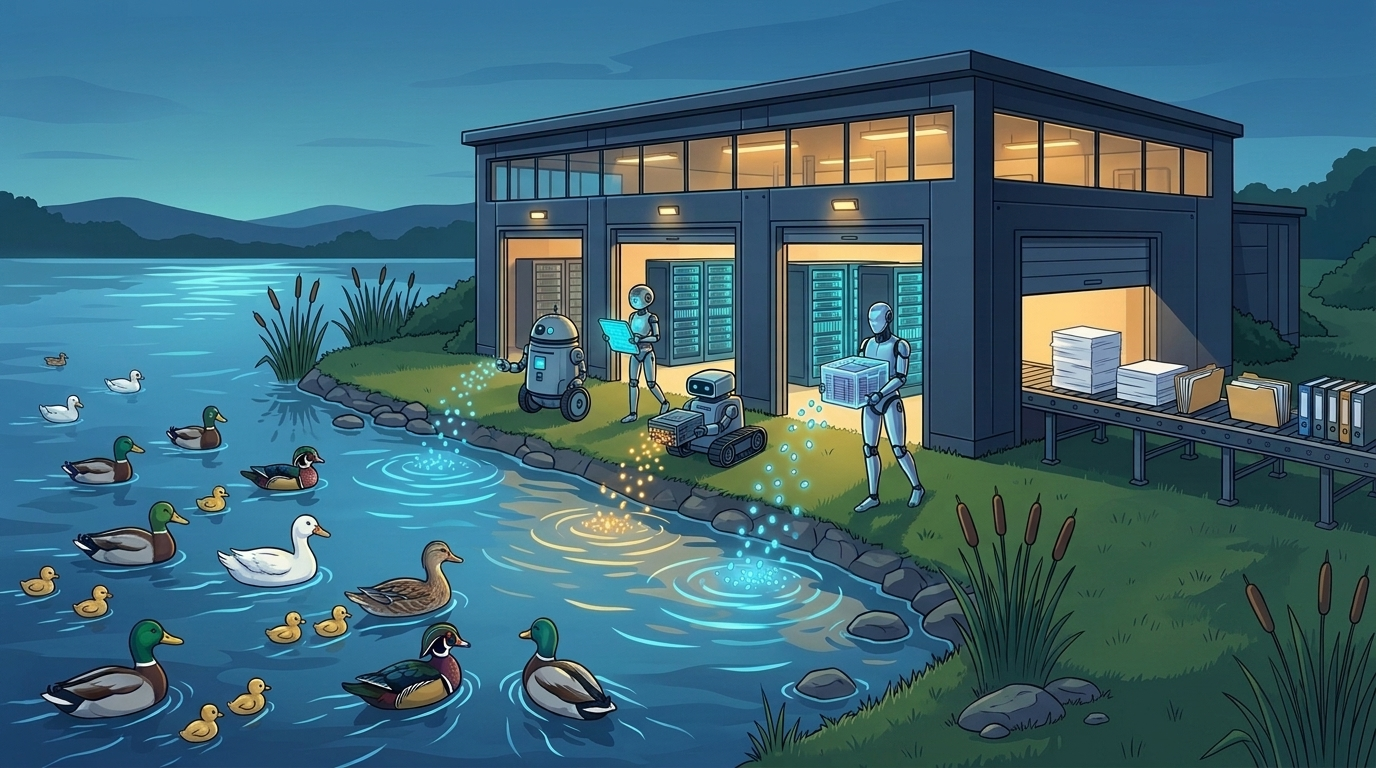
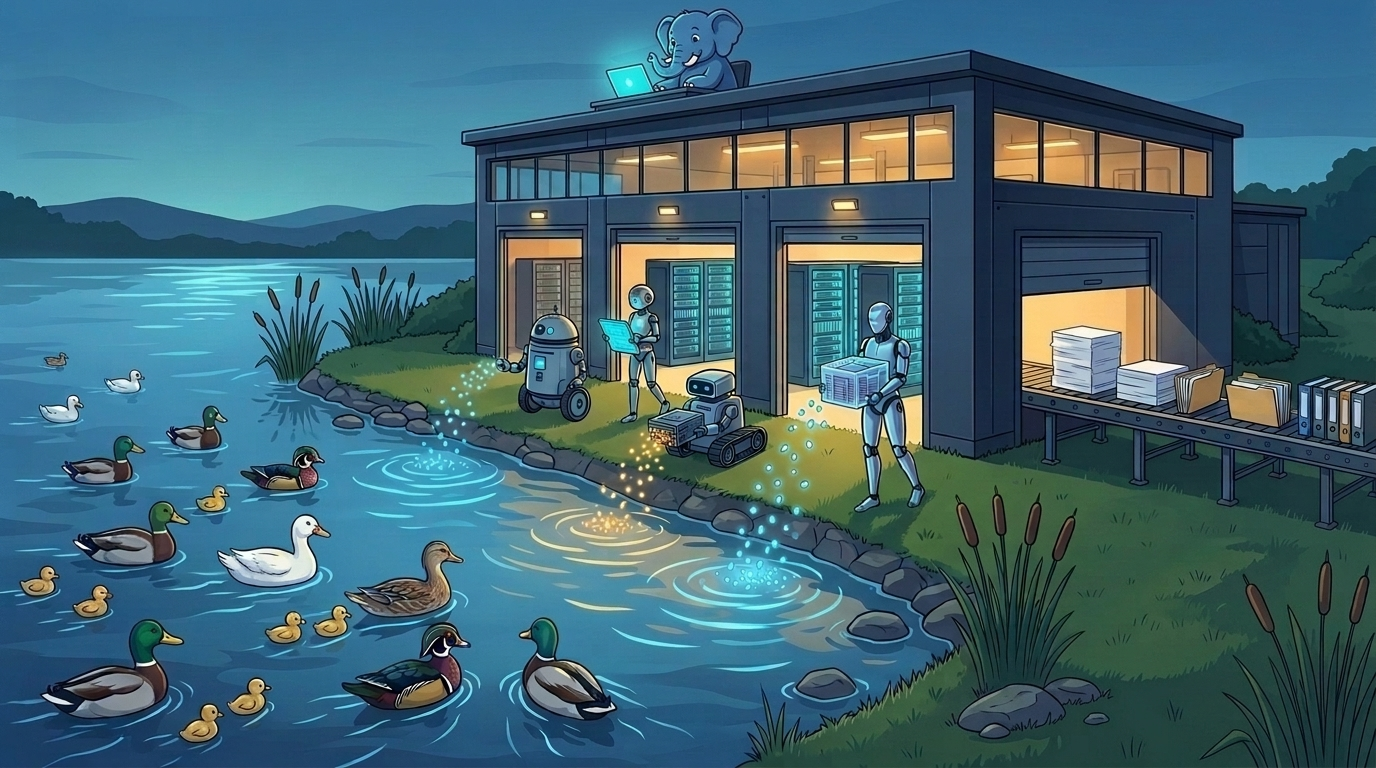
Add Import tab, fix HTTP clipboard copy, default ~/.ssl/<app>, and add roof elephant to DuckLake illustration

Changed region(s): [[0.4062, 0.0, 0.5625, 0.1562], [0.4688, 0.5625, 0.5, 0.5938], [0.4375, 0.4062, 0.4688, 0.4375]]

diff --git a/templates/index.html b/templates/index.html
@@ -399,6 +399,7 @@
             <button class="tab-btn active" onclick="switchTab('projects-tab')">📁 Projects</button>
             <button class="tab-btn" onclick="switchTab('lake-tab')">🦆 Analytics</button>
             <button class="tab-btn" onclick="switchTab('warehouse-tab')">📦 Warehouse</button>
+            <button class="tab-btn" onclick="switchTab('import-tab')">📥 Import</button>
             <button class="tab-btn" onclick="switchTab('ai-tab')">🍊🥧 AI</button>
             <button class="tab-btn" onclick="switchTab('config-tab')">⚙ Settings</button>
             <button class="tab-btn" onclick="switchTab('manifest-tab')">📜 Manifest</button>
@@ -406,7 +407,7 @@
         </div>
 
         <!-- ============================================================== -->
-        <!-- TAB 1: Projects & Global Data Ingestion                        -->
+        <!-- TAB 1: Projects                                                -->
         <!-- ============================================================== -->
         <div id="projects-tab" class="tab-content active">
             <div class="panel">
@@ -424,61 +425,6 @@
 
                 <div id="projectsListContainer" class="project-grid">
                     <div style="color: #8b949e; font-size: 0.9rem;">Loading project partitions...</div>
-                </div>
-            </div>
-
-            <!-- Ingestion Zone -->
-            <div class="panel">
-                <div class="panel-header">
-                    <h2>Global Data Ingestion: Move Data into DuckLake & Warehouse</h2>
-                </div>
-                <div class="ingest-grid">
-                    <!-- 1. Upload to DuckLake -->
-                    <div class="ingest-card">
-                        <h4>🦆 Ingest to DuckLake</h4>
-                        <p>Upload CSV, JSON, or Parquet file directly into /srv/DuckLake (auto-converts with ZSTD compression).</p>
-                        <input type="file" id="ducklakeFileInput" class="form-input" accept=".parquet,.pq,.csv,.tsv,.json,.jsonl">
-                        <input type="text" id="ducklakeTableInput" class="form-input" placeholder="Custom table name (optional)">
-                        <select id="ducklakeProjectSelect" class="form-input">
-                            <option value="default">Project Partition: default</option>
-                        </select>
-                        <select id="ducklakeModeSelect" class="form-input">
-                            <option value="replace">Mode: Replace Table</option>
-                            <option value="append">Mode: Append to Table</option>
-                        </select>
-                        <button class="btn btn-primary" onclick="uploadToDucklake()">Upload & Ingest</button>
-                    </div>
-
-                    <!-- 2. Insert JSON Records -->
-                    <div class="ingest-card">
-                        <h4>📝 Insert JSON Records</h4>
-                        <p>Append or replace rows in a DuckLake Parquet table via JSON payload.</p>
-                        <input type="text" id="insertTableName" class="form-input" placeholder="Table name (e.g. metrics)">
-                        <select id="insertProjectSelect" class="form-input">
-                            <option value="default">Project Partition: default</option>
-                        </select>
-                        <textarea id="insertJsonRecords" class="form-input" style="height:65px; font-family:monospace;" placeholder='[{"id": 1, "val": 42}]'></textarea>
-                        <select id="insertModeSelect" class="form-input">
-                            <option value="append">Mode: Append Records</option>
-                            <option value="replace">Mode: Replace Table</option>
-                        </select>
-                        <button class="btn" onclick="insertJsonRecordsToLake()">Insert Records</button>
-                    </div>
-
-                    <!-- 3. Upload to Warehouse -->
-                    <div class="ingest-card">
-                        <h4>📦 Upload Raw to Warehouse</h4>
-                        <p>Upload raw data files (CSV, JSON, SQLite, Excel, logs) into /srv/Warehouse.</p>
-                        <input type="file" id="warehouseFileInput" class="form-input">
-                        <select id="warehouseProjectSelect" class="form-input">
-                            <option value="default">Project Partition: default</option>
-                        </select>
-                        <input type="text" id="warehouseSubfolderInput" class="form-input" placeholder="Destination subfolder (optional)">
-                        <label style="font-size:0.75rem; color:#8b949e; display:flex; align-items:center; gap:6px;">
-                            <input type="checkbox" id="warehouseOverwriteCheck" checked> Overwrite if exists
-                        </label>
-                        <button class="btn btn-purple" onclick="uploadToWarehouse()">Upload Raw File</button>
-                    </div>
                 </div>
             </div>
         </div>
@@ -609,6 +555,65 @@
                             <tr><td colspan="6" style="color:#8b949e;">Loading warehouse files...</td></tr>
                         </tbody>
                     </table>
+                </div>
+            </div>
+        </div>
+
+        <!-- ============================================================== -->
+        <!-- TAB 4: Global Data Ingestion (Import)                          -->
+        <!-- ============================================================== -->
+        <div id="import-tab" class="tab-content">
+            <div class="panel">
+                <div class="panel-header">
+                    <h2>📥 Global Data Ingestion: Move Data into DuckLake &amp; Warehouse</h2>
+                </div>
+                <div class="ingest-grid">
+                    <!-- 1. Upload to DuckLake -->
+                    <div class="ingest-card">
+                        <h4>🦆 Ingest to DuckLake</h4>
+                        <p>Upload CSV, JSON, or Parquet file directly into /srv/DuckLake (auto-converts with ZSTD compression).</p>
+                        <input type="file" id="ducklakeFileInput" class="form-input" accept=".parquet,.pq,.csv,.tsv,.json,.jsonl">
+                        <input type="text" id="ducklakeTableInput" class="form-input" placeholder="Custom table name (optional)">
+                        <select id="ducklakeProjectSelect" class="form-input">
+                            <option value="default">Project Partition: default</option>
+                        </select>
+                        <select id="ducklakeModeSelect" class="form-input">
+                            <option value="replace">Mode: Replace Table</option>
+                            <option value="append">Mode: Append to Table</option>
+                        </select>
+                        <button class="btn btn-primary" onclick="uploadToDucklake()">Upload &amp; Ingest</button>
+                    </div>
+
+                    <!-- 2. Insert JSON Records -->
+                    <div class="ingest-card">
+                        <h4>📝 Insert JSON Records</h4>
+                        <p>Append or replace rows in a DuckLake Parquet table via JSON payload.</p>
+                        <input type="text" id="insertTableName" class="form-input" placeholder="Table name (e.g. metrics)">
+                        <select id="insertProjectSelect" class="form-input">
+                            <option value="default">Project Partition: default</option>
+                        </select>
+                        <textarea id="insertJsonRecords" class="form-input" style="height:65px; font-family:monospace;" placeholder='[{"id": 1, "val": 42}]'></textarea>
+                        <select id="insertModeSelect" class="form-input">
+                            <option value="append">Mode: Append Records</option>
+                            <option value="replace">Mode: Replace Table</option>
+                        </select>
+                        <button class="btn" onclick="insertJsonRecordsToLake()">Insert Records</button>
+                    </div>
+
+                    <!-- 3. Upload to Warehouse -->
+                    <div class="ingest-card">
+                        <h4>📦 Upload Raw to Warehouse</h4>
+                        <p>Upload raw data files (CSV, JSON, SQLite, Excel, logs) into /srv/Warehouse.</p>
+                        <input type="file" id="warehouseFileInput" class="form-input">
+                        <select id="warehouseProjectSelect" class="form-input">
+                            <option value="default">Project Partition: default</option>
+                        </select>
+                        <input type="text" id="warehouseSubfolderInput" class="form-input" placeholder="Destination subfolder (optional)">
+                        <label style="font-size:0.75rem; color:#8b949e; display:flex; align-items:center; gap:6px;">
+                            <input type="checkbox" id="warehouseOverwriteCheck" checked> Overwrite if exists
+                        </label>
+                        <button class="btn btn-purple" onclick="uploadToWarehouse()">Upload Raw File</button>
+                    </div>
                 </div>
             </div>
         </div>
@@ -1335,7 +1340,7 @@
             <div class="config-grid">
                 <div class="form-group" style="margin-bottom:0;">
                     <label class="form-label">App Name</label>
-                    <input type="text" id="enrollAppName" class="form-input" placeholder="e.g. telemetry-api">
+                    <input type="text" id="enrollAppName" class="form-input" placeholder="e.g. telemetry-api" oninput="syncEnrollSslPathFromName()">
                 </div>
                 <div class="form-group" style="margin-bottom:0;">
                     <label class="form-label">Subdomain</label>
@@ -1370,7 +1375,7 @@
             </div>
             <div class="form-group" style="margin-bottom:0;">
                 <label class="form-label">Remote SSL Target Directory</label>
-                <input type="text" id="enrollSslDir" class="form-input" style="font-family:monospace;" value="~/ssl/lab">
+                <input type="text" id="enrollSslDir" class="form-input" style="font-family:monospace;" value="~/.ssl/app" oninput="this.dataset.manual='1'">
             </div>
             <div class="form-group" style="margin-bottom:0;">
                 <label class="form-label">Optional Reload Command (executed over SSH after cert push)</label>
@@ -1654,14 +1659,42 @@
             if (btn) btn.classList.add('active');
         }
 
+        function copyTextToClipboard(text, successMsg) {
+            if (!text) return;
+            if (navigator.clipboard && window.isSecureContext) {
+                navigator.clipboard.writeText(text).then(() => {
+                    if (successMsg) alert(successMsg);
+                }).catch(() => fallbackCopyText(text, successMsg));
+            } else {
+                fallbackCopyText(text, successMsg);
+            }
+        }
+
+        function fallbackCopyText(text, successMsg) {
+            const ta = document.createElement('textarea');
+            ta.value = text;
+            ta.setAttribute('readonly', '');
+            ta.style.position = 'fixed';
+            ta.style.left = '-9999px';
+            ta.style.top = '0';
+            document.body.appendChild(ta);
+            ta.focus();
+            ta.select();
+            try {
+                const ok = document.execCommand('copy');
+                if (ok && successMsg) alert(successMsg);
+                else if (!ok) alert("Could not copy automatically. Please select and copy manually.");
+            } catch (err) {
+                alert("Copy failed: " + err);
+            } finally {
+                document.body.removeChild(ta);
+            }
+        }
+
         function copyCodeBlock(id) {
             const el = document.getElementById(id);
             if (!el) return;
-            navigator.clipboard.writeText(el.textContent).then(() => {
-                alert("Copied code to clipboard!");
-            }).catch(err => {
-                console.error("Clipboard copy failed:", err);
-            });
+            copyTextToClipboard(el.textContent, "Copied to clipboard!");
         }
 
         function openSnippetsModal(pid, displayName) {
@@ -2180,29 +2213,42 @@ SELECT * FROM ${pid}.<table_name> LIMIT 10;`;
             }).join('');
         }
 
+        function syncEnrollSslPathFromName() {
+            if (document.getElementById('enrollAppId').value) return;
+            const sslInput = document.getElementById('enrollSslDir');
+            if (sslInput.dataset.manual === '1') return;
+            const name = document.getElementById('enrollAppName').value.trim().replace(/[^a-zA-Z0-9._-]/g, '') || 'app';
+            sslInput.value = `~/.ssl/${name}`;
+        }
+
         function applyAppTypePreset() {
             if (document.getElementById('enrollAppId').value) return;
             const t = document.getElementById('enrollAppType').value;
-            const user = document.getElementById('enrollSshUser').value.trim() || 'orangepi';
+            const appName = document.getElementById('enrollAppName').value.trim().replace(/[^a-zA-Z0-9._-]/g, '') || 'app';
+            const sslDir = `~/.ssl/${appName}`;
             const presets = {
-                flask:    { port: 5000, dir: `~/ssl/lab`,     cmd: '' },
-                gunicorn: { port: 8000, dir: `~/ssl/lab`,     cmd: '' },
-                uvicorn:  { port: 8000, dir: `~/ssl/lab`,     cmd: '' },
-                nginx:    { port: 443,  dir: `/etc/ssl/lab`,  cmd: 'sudo nginx -t && sudo systemctl reload nginx' },
-                caddy:    { port: 443,  dir: `/etc/ssl/lab`,  cmd: 'sudo systemctl reload caddy' },
-                custom:   { port: 8443, dir: `~/ssl/lab`,     cmd: '' }
+                flask:    { port: 5000, dir: sslDir, cmd: '' },
+                gunicorn: { port: 8000, dir: sslDir, cmd: '' },
+                uvicorn:  { port: 8000, dir: sslDir, cmd: '' },
+                nginx:    { port: 443,  dir: sslDir, cmd: 'sudo nginx -t && sudo systemctl reload nginx' },
+                caddy:    { port: 443,  dir: sslDir, cmd: 'sudo systemctl reload caddy' },
+                custom:   { port: 8443, dir: sslDir, cmd: '' }
             };
             const p = presets[t] || presets.custom;
             document.getElementById('enrollAppPort').value = p.port;
-            document.getElementById('enrollSslDir').value = p.dir;
+            const sslInput = document.getElementById('enrollSslDir');
+            if (sslInput.dataset.manual !== '1') sslInput.value = p.dir;
             document.getElementById('enrollReloadCmd').value = p.cmd;
         }
 
         function openEnrollAppModal(appId = null) {
             document.getElementById('rv2SshPubKey').textContent = cachedSshPubKey || 'No SSH public key found in ~/.ssh/';
+            const sslInput = document.getElementById('enrollSslDir');
+            sslInput.dataset.manual = '';
             if (appId) {
                 const app = cachedEnrolledApps.find(a => a.id === appId);
                 if (!app) return;
+                sslInput.dataset.manual = '1';
                 document.getElementById('enrollModalTitle').textContent = `Edit Enrolled App: ${app.app_name}`;
                 document.getElementById('enrollAppId').value = app.id;
                 document.getElementById('enrollAppName').value = app.app_name;
@@ -2212,7 +2258,7 @@ SELECT * FROM ${pid}.<table_name> LIMIT 10;`;
                 document.getElementById('enrollSshHost').value = app.ssh_host;
                 document.getElementById('enrollSshUser').value = app.ssh_user;
                 document.getElementById('enrollSshPort').value = app.ssh_port || 22;
-                document.getElementById('enrollSslDir').value = app.remote_ssl_dir;
+                sslInput.value = app.remote_ssl_dir;
                 document.getElementById('enrollReloadCmd').value = app.reload_cmd || '';
                 document.getElementById('enrollAutoSync').checked = !!app.auto_sync;
             } else {
@@ -2241,7 +2287,7 @@ SELECT * FROM ${pid}.<table_name> LIMIT 10;`;
                 ssh_host: document.getElementById('enrollSshHost').value.trim(),
                 ssh_user: document.getElementById('enrollSshUser').value.trim() || 'orangepi',
                 ssh_port: parseInt(document.getElementById('enrollSshPort').value) || 22,
-                remote_ssl_dir: document.getElementById('enrollSslDir').value.trim() || '~/ssl/lab',
+                remote_ssl_dir: document.getElementById('enrollSslDir').value.trim() || `~/.ssl/${document.getElementById('enrollAppName').value.trim() || 'app'}`,
                 reload_cmd: document.getElementById('enrollReloadCmd').value.trim(),
                 auto_sync: document.getElementById('enrollAutoSync').checked
             };
@@ -2325,9 +2371,9 @@ SELECT * FROM ${pid}.<table_name> LIMIT 10;`;
             let code = '';
 
             if (app.app_type === 'flask') {
-                code = `# Flask HTTPS configuration (${app.fqdn}:${app.app_port})\nimport os\nfrom flask import Flask\n\napp = Flask(__name__)\n\nif __name__ == "__main__":\n    cert = os.path.expanduser("${certPath}")\n    key = os.path.expanduser("${keyPath}")\n    app.run(host="0.0.0.0", port=${app.app_port}, ssl_context=(cert, key))`;
+                code = `# Flask auto-detecting SSL from ${d} (${app.fqdn}:${app.app_port})\nimport os\nfrom flask import Flask\n\napp = Flask(__name__)\n\nif __name__ == "__main__":\n    cert = os.path.expanduser("${certPath}")\n    key = os.path.expanduser("${keyPath}")\n    ssl_ctx = (cert, key) if (os.path.isfile(cert) and os.path.isfile(key)) else None\n    app.run(host="0.0.0.0", port=${app.app_port}, ssl_context=ssl_ctx)`;
             } else if (app.app_type === 'gunicorn') {
-                code = `# Gunicorn native TLS launch (${app.fqdn}:${app.app_port})\ngunicorn \\\n  --bind 0.0.0.0:${app.app_port} \\\n  --certfile "${certPath}" \\\n  --keyfile "${keyPath}" \\\n  --workers 2 --threads 4 app:app`;
+                code = `# gunicorn.conf.py - Auto-enables HTTPS when certs exist in ${d} (${app.fqdn}:${app.app_port})\nimport os\n\ncert = os.path.expanduser("${certPath}")\nkey = os.path.expanduser("${keyPath}")\n\nif os.path.isfile(cert) and os.path.isfile(key):\n    certfile = cert\n    keyfile = key\nbind = "0.0.0.0:${app.app_port}"\nworkers = 2\nthreads = 4`;
             } else if (app.app_type === 'uvicorn') {
                 code = `# Uvicorn / FastAPI native TLS (${app.fqdn}:${app.app_port})\nuvicorn main:app \\\n  --host 0.0.0.0 --port ${app.app_port} \\\n  --ssl-certfile "${certPath}" \\\n  --ssl-keyfile "${keyPath}"`;
             } else if (app.app_type === 'nginx') {
@@ -2845,11 +2891,7 @@ SELECT * FROM ${pid}.<table_name> LIMIT 10;`;
 
         function copyPreviewContent() {
             const content = document.getElementById('previewModalBody').textContent;
-            navigator.clipboard.writeText(content).then(() => {
-                alert("File preview content copied to clipboard!");
-            }).catch(err => {
-                alert("Could not copy content: " + err);
-            });
+            copyTextToClipboard(content, "File preview content copied to clipboard!");
         }
 
         async function deleteWarehouseFile(filePath) {
@@ -3045,9 +3087,7 @@ SELECT * FROM ${pid}.<table_name> LIMIT 10;`;
                 alert("Manifest not loaded yet.");
                 return;
             }
-            navigator.clipboard.writeText(cachedManifest.system_prompt).then(() => {
-                alert("System prompt copied to clipboard!");
-            });
+            copyTextToClipboard(cachedManifest.system_prompt, "System prompt copied to clipboard!");
         }
 
         function copyToolsJson() {
@@ -3055,9 +3095,7 @@ SELECT * FROM ${pid}.<table_name> LIMIT 10;`;
                 alert("Manifest not loaded yet.");
                 return;
             }
-            navigator.clipboard.writeText(JSON.stringify(cachedManifest.tools, null, 2)).then(() => {
-                alert("OpenAI Tools JSON copied to clipboard!");
-            });
+            copyTextToClipboard(JSON.stringify(cachedManifest.tools, null, 2), "OpenAI Tools JSON copied to clipboard!");
         }
 
         // ==================== Local AI Inference ====================

diff --git a/CertManager.py b/CertManager.py
@@ -927,7 +927,8 @@ class CertManager:
         ssh_port = int(data.get("ssh_port", 22) or 22)
         ssh_user = str(data.get("ssh_user", "orangepi")).strip()
         app_type = str(data.get("app_type", "flask")).strip().lower()
-        remote_ssl_dir = str(data.get("remote_ssl_dir", f"/home/{ssh_user}/ssl/lab")).strip()
+        default_ssl_dir = f"~/.ssl/{app_name or 'app'}"
+        remote_ssl_dir = str(data.get("remote_ssl_dir") or default_ssl_dir).strip()
         app_port = int(data.get("app_port", 5000) or 5000)
         reload_cmd = str(data.get("reload_cmd", "")).strip()
         auto_sync = bool(data.get("auto_sync", True))

diff --git a/README.md b/README.md
@@ -471,9 +471,10 @@ curl -X POST http://192.168.18.15:5000/ai/models/sync
 ## 7. Web Management Console
 
 Open `http://<server-ip>:5000/` (or `https://ducklake.lab.<your-domain>` when HTTPS is configured via [CA.md](CA.md)) in any web browser to access the unified dashboard:
-- **📁 Projects Tab:** View all project partitions, create new projects, inspect project assets, copy Python SDK / REST snippets, and ingest files/JSON into DuckLake & Warehouse.
+- **📁 Projects Tab:** View all project partitions, create new projects, inspect project assets, and copy Python SDK / REST snippets.
 - **🦆 Analytics Tab:** Filter DuckLake Parquet tables by project/search, download Parquet files, manage snapshots/compaction/inlined flush, and open the interactive DuckDB SQL Console modal.
 - **📦 Warehouse Tab:** Browse recursive `/srv/Warehouse` categories and raw files, filter by category/project/format, preview text/log files, convert to Parquet, download, or delete.
+- **📥 Import Tab:** Global data ingestion into DuckLake Parquet tables, JSON record streams, and raw `/srv/Warehouse` files.
 - **🍊🥧 AI Tab:** Inspect registered local ONNX models, view network authorization status, and chat interactively with streaming output.
 - **⚙ Settings Tab:** Toggle **AI Chat Runtime**, **Allow Remote AI Access**, and **Adminer Web UI**, and configure DuckDB memory/threads, allowed CIDRs, AI defaults, and upload limits.
 - **📜 Manifest Tab:** Service manifest (`/manifest`) and OpenAPI 3.0 specification (`/openapi.json`) for agent self-discovery.
